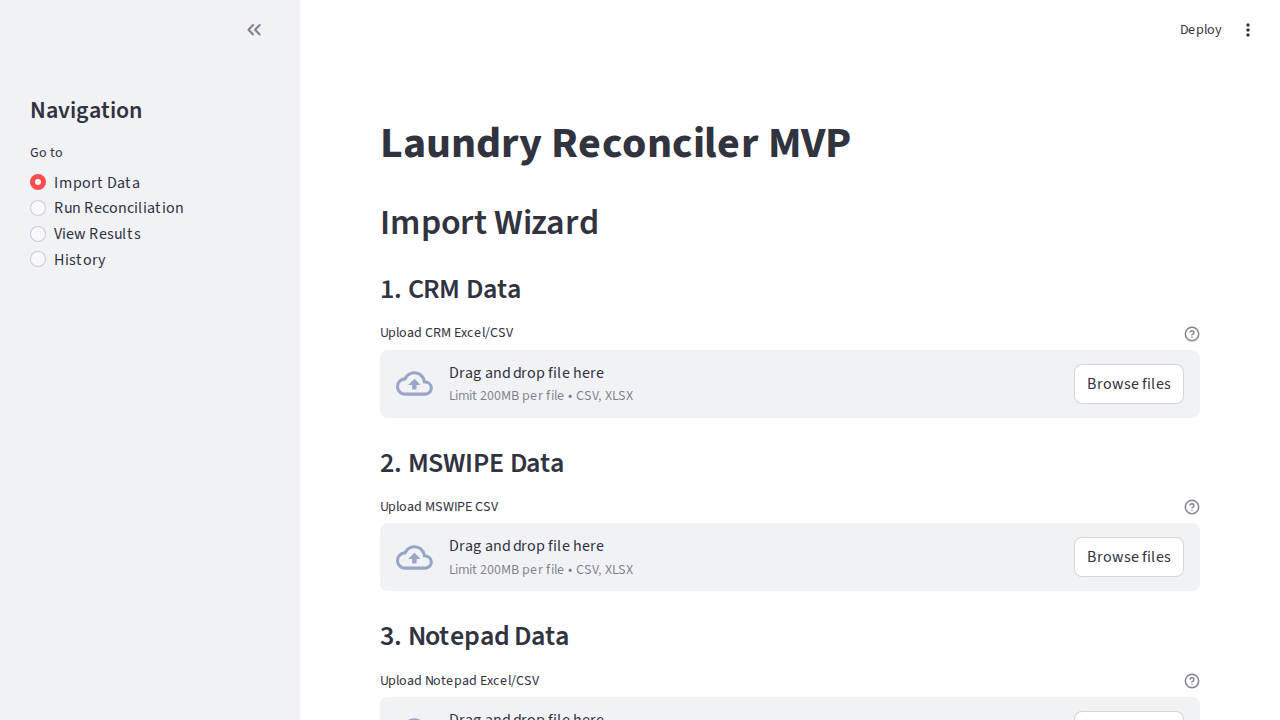
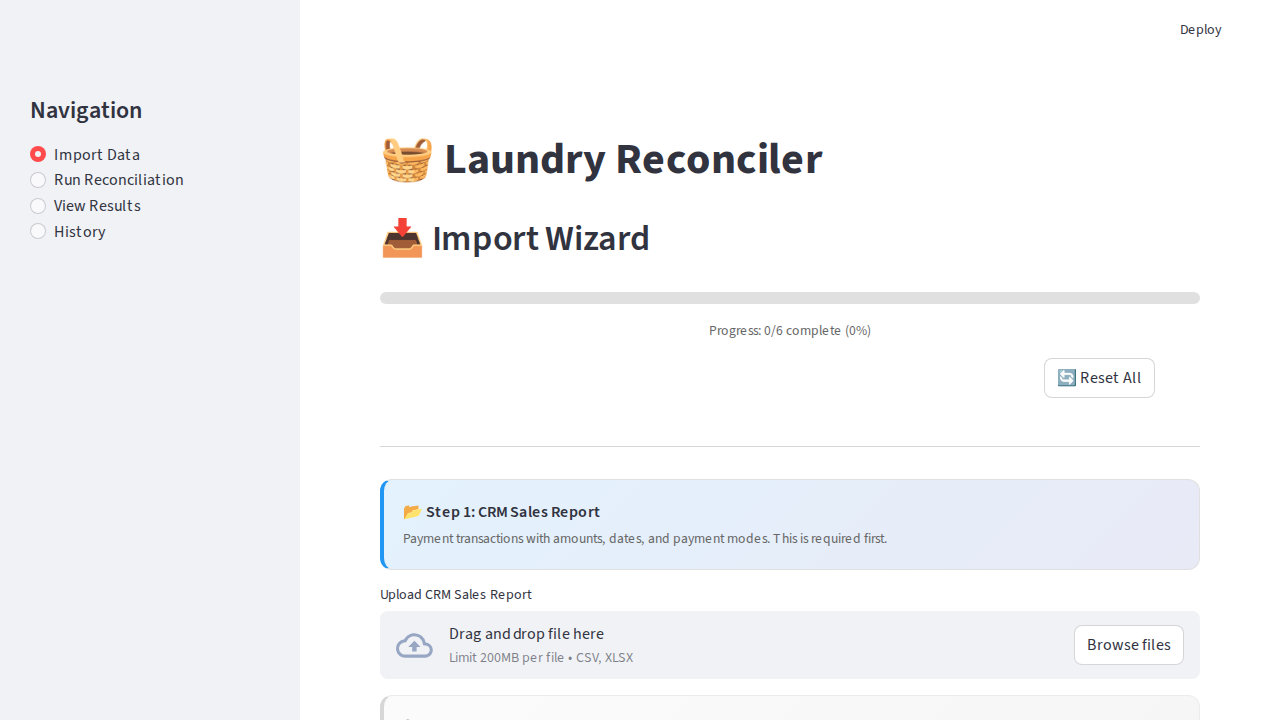
🎨 Palette: Enhance reconciliation UX with st.status
Replaces sequential `st.spinner` calls with `st.status` for both single date and date range reconciliation processes. This provides a progressive, collapsible disclosure of the long-running matching and rules engine steps without overwhelming the user interface.

Important metrics and final success/failure messages are explicitly rendered outside the `st.status` block so they remain visible when the block automatically collapses on completion.

Fixes an outdated UI title check in `tests/test_ui_syntax.py` and documents the layout learning in `.Jules/palette.md`.

diff --git a/src/ui/app.py b/src/ui/app.py
@@ -618,33 +618,41 @@ def page_reconciliation(session_db):
         run_date = st.date_input("Select Date to Reconcile", value=date.today())
 
         if st.button("▶ Start Reconciliation", type="primary"):
-            with st.spinner("Running Matching Service..."):
+            run = None
+            error_msg = None
+            with st.status("Running Reconciliation Process...", expanded=True) as status:
+                st.write("Running Matching Service...")
                 matcher = MatchingService(session_db)
                 match_stats = matcher.match_notepad_deliveries()
                 mswipe_stats = matcher.match_mswipe_payments()
 
-            with st.spinner(f"Running Reconciliation for {run_date}..."):
+                st.write(f"Running Rules Engine for {run_date}...")
                 recon = ReconciliationService(session_db)
                 try:
                     run = recon.run_reconciliation(run_date)
-                    st.success(f"✅ Reconciliation Complete! Run ID: {run.id}")
-
-                    col1, col2, col3 = st.columns(3)
-                    col1.metric("Notepad Matches",
-                               f"{match_stats.get('exact', 0) + match_stats.get('fuzzy', 0)}")
-                    col2.metric("MSWIPE Matches", str(mswipe_stats.get('matched', 0)))
-                    col3.metric("Exceptions", str(run.summary_stats.get('total_exceptions', 0)))
-
-                    late = run.summary_stats.get('late_payment_exceptions', 0)
-                    if late > 0:
-                        st.warning(f"⚠ {late} late payment(s) detected")
-
-                    if st.button("📊 View Results", key="nav_to_results_single"):
-                        st.session_state['nav_radio'] = "View Results"
-                        st.rerun()
-
+                    status.update(label="Reconciliation Complete!", state="complete", expanded=False)
                 except LaundryReconcilerError as e:
-                    st.error(f"❌ Reconciliation Failed: {e}")
+                    error_msg = str(e)
+                    status.update(label="Reconciliation Failed", state="error", expanded=True)
+
+            if run:
+                st.success(f"✅ Reconciliation Complete! Run ID: {run.id}")
+
+                col1, col2, col3 = st.columns(3)
+                col1.metric("Notepad Matches",
+                           f"{match_stats.get('exact', 0) + match_stats.get('fuzzy', 0)}")
+                col2.metric("MSWIPE Matches", str(mswipe_stats.get('matched', 0)))
+                col3.metric("Exceptions", str(run.summary_stats.get('total_exceptions', 0)))
+
+                late = run.summary_stats.get('late_payment_exceptions', 0)
+                if late > 0:
+                    st.warning(f"⚠ {late} late payment(s) detected")
+
+                if st.button("📊 View Results", key="nav_to_results_single"):
+                    st.session_state['nav_radio'] = "View Results"
+                    st.rerun()
+            elif error_msg:
+                st.error(f"❌ Reconciliation Failed: {error_msg}")
 
     else:
         # Date range mode
@@ -662,59 +670,68 @@ def page_reconciliation(session_db):
         st.info(f"📊 Will reconcile **{total_days} days** from {start_date} to {end_date}")
 
         if st.button("▶ Start Range Reconciliation", type="primary"):
-            # Run matching first
-            with st.spinner("Running Matching Service..."):
+            totals = None
+            error_msg = None
+
+            with st.status("Running Range Reconciliation Process...", expanded=True) as status:
+                st.write("Running Matching Service...")
                 matcher = MatchingService(session_db)
                 match_stats = matcher.match_notepad_deliveries()
                 mswipe_stats = matcher.match_mswipe_payments()
 
-            # Run range reconciliation with progress bar
-            progress_bar = st.progress(0, text="Starting reconciliation...")
-            status_text = st.empty()
+                st.write(f"Running Rules Engine for range {start_date} to {end_date}...")
+                progress_bar = st.progress(0, text="Starting reconciliation...")
 
-            def on_progress(current, total):
-                progress_bar.progress(current / total, text=f"Processing day {current}/{total}...")
+                def on_progress(current, total):
+                    progress_bar.progress(current / total, text=f"Processing day {current}/{total}...")
 
-            recon = ReconciliationService(session_db)
-            totals = recon.run_reconciliation_range(start_date, end_date, progress_callback=on_progress)
+                recon = ReconciliationService(session_db)
+                try:
+                    totals = recon.run_reconciliation_range(start_date, end_date, progress_callback=on_progress)
+                    progress_bar.progress(1.0, text="✅ Range processing complete!")
+                    status.update(label="Range Reconciliation Complete!", state="complete", expanded=False)
+                except Exception as e:
+                    error_msg = str(e)
+                    status.update(label="Range Reconciliation Failed", state="error", expanded=True)
 
-            progress_bar.progress(1.0, text="✅ Complete!")
+            if totals:
+                # Show consolidated results
+                st.success(f"✅ Range Reconciliation Complete!")
 
-            # Show consolidated results
-            st.success(f"✅ Range Reconciliation Complete!")
+                col1, col2, col3, col4 = st.columns(4)
+                col1.metric("Days Processed", totals['days_processed'])
+                col2.metric("Days with Activity", totals['days_with_activity'])
+                col3.metric("Total Exceptions", totals['total_exceptions'])
+                col4.metric("Days with Exceptions", totals['days_with_exceptions'])
 
-            col1, col2, col3, col4 = st.columns(4)
-            col1.metric("Days Processed", totals['days_processed'])
-            col2.metric("Days with Activity", totals['days_with_activity'])
-            col3.metric("Total Exceptions", totals['total_exceptions'])
-            col4.metric("Days with Exceptions", totals['days_with_exceptions'])
+                st.divider()
 
-            st.divider()
+                col_a, col_b, col_c, col_d = st.columns(4)
+                col_a.metric("Order Exceptions", totals['order_exceptions'])
+                col_b.metric("Late Payments", totals['late_payment_exceptions'])
+                col_c.metric("Day Exceptions", totals['day_exceptions'])
+                col_d.metric("Matching",
+                            f"{match_stats.get('exact', 0) + match_stats.get('fuzzy', 0)} notepad, "
+                            f"{mswipe_stats.get('matched', 0)} mswipe")
 
-            col_a, col_b, col_c, col_d = st.columns(4)
-            col_a.metric("Order Exceptions", totals['order_exceptions'])
-            col_b.metric("Late Payments", totals['late_payment_exceptions'])
-            col_c.metric("Day Exceptions", totals['day_exceptions'])
-            col_d.metric("Matching",
-                        f"{match_stats.get('exact', 0) + match_stats.get('fuzzy', 0)} notepad, "
-                        f"{mswipe_stats.get('matched', 0)} mswipe")
+                # Per-day breakdown table
+                per_day = totals.get('per_day', [])
+                if per_day:
+                    with st.expander("📋 Per-Day Breakdown", expanded=False):
+                        day_df = pd.DataFrame(per_day)
+                        day_df['date'] = day_df['date'].astype(str)
+                        # Highlight days with exceptions
+                        st.dataframe(day_df, width='stretch')
 
-            # Per-day breakdown table
-            per_day = totals.get('per_day', [])
-            if per_day:
-                with st.expander("📋 Per-Day Breakdown", expanded=False):
-                    day_df = pd.DataFrame(per_day)
-                    day_df['date'] = day_df['date'].astype(str)
-                    # Highlight days with exceptions
-                    st.dataframe(day_df, width='stretch')
+                # Store range results in session state for the results page
+                st.session_state['range_results'] = totals
+                st.session_state['range_dates'] = (str(start_date), str(end_date))
 
-            # Store range results in session state for the results page
-            st.session_state['range_results'] = totals
-            st.session_state['range_dates'] = (str(start_date), str(end_date))
-
-            if st.button("📊 View Results", type="primary", key="nav_to_results_range"):
-                st.session_state['nav_radio'] = "View Results"
-                st.rerun()
+                if st.button("📊 View Results", type="primary", key="nav_to_results_range"):
+                    st.session_state['nav_radio'] = "View Results"
+                    st.rerun()
+            elif error_msg:
+                st.error(f"❌ Range Reconciliation Failed: {error_msg}")
 
 
 # ── Page: View Results ────────────────────────────────────

diff --git a/tests/test_ui_syntax.py b/tests/test_ui_syntax.py
@@ -38,5 +38,5 @@ def test_ui_import_and_basic_structure():
 
     # Verify basic streamlit calls were made (which happens on import for this script)
     mock_st.set_page_config.assert_called()
-    mock_st.title.assert_called_with("Laundry Reconciler MVP")
+    mock_st.title.assert_called_with("🧺 Laundry Reconciler")
     mock_st.sidebar.title.assert_called_with("Navigation")

diff --git a/.Jules/palette.md b/.Jules/palette.md
@@ -9,3 +9,7 @@
 ## 2026-02-24 - Provide Data Previews
 **Learning:** In data upload forms, users often doubt if they uploaded the correct file (especially with ambiguous names like "export.csv"). Providing a small, embedded preview of the data (e.g. first 5 rows) immediately after upload builds confidence before they commit to an import action.
 **Action:** Use `st.expander` with `pd.read_csv` or `pd.read_excel` to show a snapshot of uploaded data, remembering to reset the file pointer (`.seek(0)`) to not break downstream logic.
+
+## 2026-03-17 - Progress Indicator Metrics Placement
+**Learning:** When using `st.status` for progressive disclosure of long-running multi-step processes, it is crucial to place final success messages, summary metrics, and subsequent action buttons *outside* the `with st.status(...):` block. If placed inside, these important final results become hidden when the status container automatically collapses (`expanded=False`) upon completion, leading to a confusing UX where the user thinks the process finished but doesn't see the results.
+**Action:** Always structure code so that the `with st.status()` block only contains the transient progress updates, and the final state/metrics are rendered immediately after the block exits.
